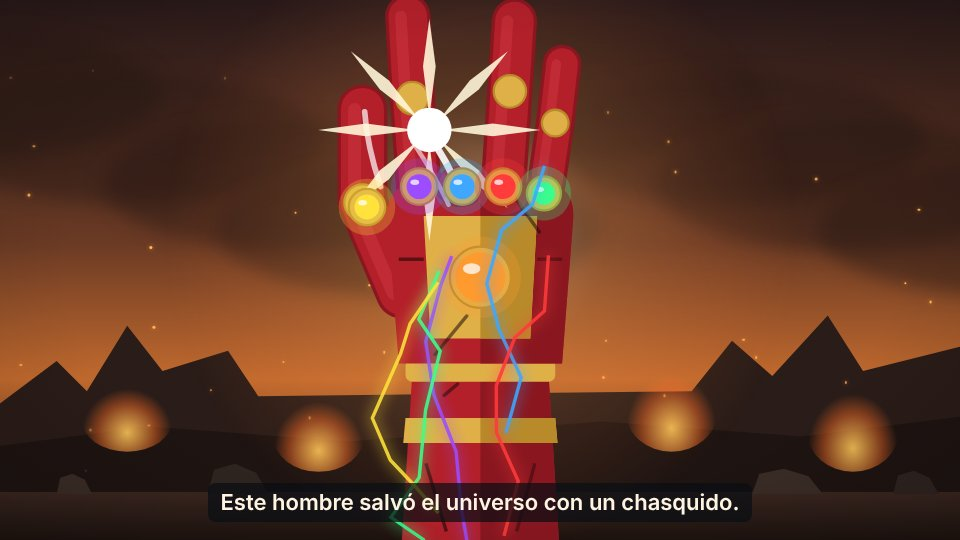
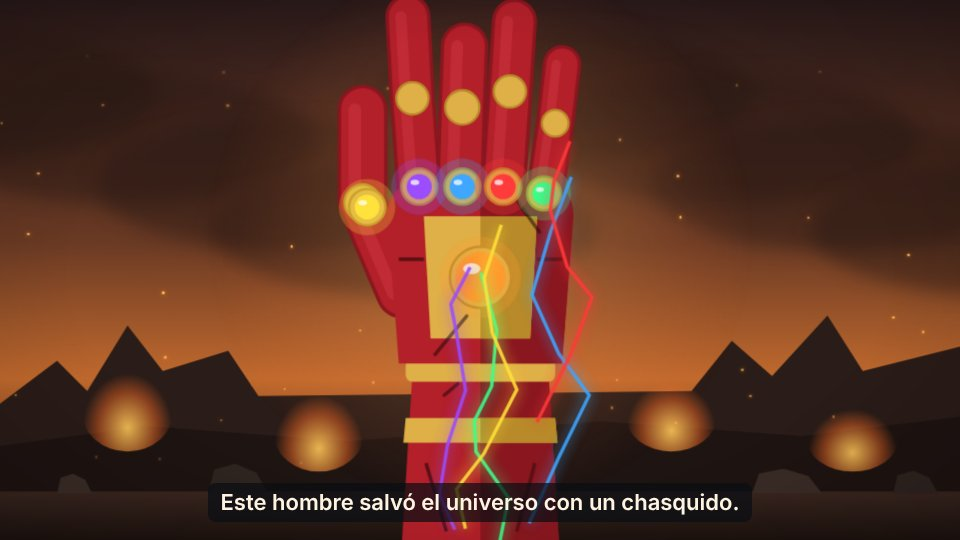
Downey: chasquido sin punto parpadeante y con el dedo que vuelve, máscara recogida de frente sin manos extra, sin barrido de luz, brazo doblado en el taller
Claude-Session: https://claude.ai/code/session_017UKAqj43a3U2Zak48PwerT

diff --git a/src/downey/Escena10.tsx b/src/downey/Escena10.tsx
@@ -3,7 +3,7 @@ import { AbsoluteFill, useCurrentFrame } from "remotion";
 import { useEscena } from "../comun/timeline";
 import { Plano } from "../stallone/escenario";
 import { D, F_CIFRA, interp, prog } from "./estilo";
-import { Encapuchado, manoEncapuchado, HOMBRO_DER, HOMBRO_IZQ, Robert, resolverBrazo, topDePie } from "./Personajes";
+import { Encapuchado, manoEncapuchado, HOMBRO_DER, HOMBRO_IZQ, Robert, resolverBrazo, topDePie, mezclar } from "./Personajes";
 import { Look, Mascara } from "./props";
 import { Cita, Efecto, PantallaFinal, Particulas } from "./ui";
 
@@ -22,16 +22,16 @@ export const Escena10: React.FC = () => {
   // máscara: reposa en la mesa y luego sube entre sus manos
   const MW = 240;
   const mk = MW / 220;
-  const reposo: [number, number] = [1040, MESA - 120 * mk];
-  const alto: [number, number] = [rx + 100 * k - MW / 2, rTop - 150 * mk];
+  const reposo: [number, number] = [rx + 100 * k - MW / 2, MESA - 120 * mk];
+  const alto: [number, number] = [rx + 100 * k - MW / 2, rTop + 52 * k - 80 * mk];
   const sube = interp(f, [c.saga - 4, c.doom - 6], [0, 1], { extrapolateLeft: "clamp", extrapolateRight: "clamp", easing: (t) => (t < 0.5 ? 2 * t * t : 1 - Math.pow(-2 * t + 2, 2) / 2) });
   const coger = prog(f, c.saga - 28, 20);
   const mPos: [number, number] = [reposo[0] + (alto[0] - reposo[0]) * sube, reposo[1] + (alto[1] - reposo[1]) * sube];
   const bordeIzq: [number, number] = [mPos[0] + 26 * mk, mPos[1] + 80 * mk];
   const bordeDer: [number, number] = [mPos[0] + 194 * mk, mPos[1] + 80 * mk];
   const local = (p: [number, number]): [number, number] => [(p[0] - rx) / k, (p[1] - rTop) / k];
-  const bIzq = coger > 0 ? resolverBrazo(HOMBRO_IZQ[0], HOMBRO_IZQ[1], -1, ...local(bordeIzq)) : { hombro: 6, codo: 4 };
-  const bDer = coger > 0 ? resolverBrazo(HOMBRO_DER[0], HOMBRO_DER[1], 1, ...local(bordeDer)) : { hombro: 6, codo: 4 };
+  const bIzq = mezclar({ hombro: 6, codo: 4 }, resolverBrazo(HOMBRO_IZQ[0], HOMBRO_IZQ[1], -1, ...local(bordeIzq)), coger);
+  const bDer = mezclar({ hombro: 6, codo: 4 }, resolverBrazo(HOMBRO_DER[0], HOMBRO_DER[1], 1, ...local(bordeDer)), coger);
   const orbita = Math.sin((f / dur) * Math.PI) * 40;
   // trono: levanta la mano y detiene un rayo
   const manoV = prog(f, c.doom + 14, 14);
@@ -50,22 +50,23 @@ export const Escena10: React.FC = () => {
           {/* muro de piedra */}
           <AbsoluteFill style={{ backgroundImage: "repeating-linear-gradient(0deg, rgba(0,0,0,0.18) 0 3px, transparent 3px 90px), repeating-linear-gradient(90deg, rgba(0,0,0,0.12) 0 3px, transparent 3px 180px)", opacity: 0.8 }} />
           <div style={{ position: "absolute", left: 0, right: 0, top: SUELO, bottom: 0, background: "linear-gradient(#24392C, #142219)" }} />
+          {/* Robert detrás de la mesa, de frente: coge la máscara y se la acerca a la cara */}
+          <div style={{ position: "absolute", left: rx, top: rTop }}>
+            <Robert alto={ALTO} vista="frente" ropa="traje" expresion="serio" brazoIzq={bIzq} brazoDer={bDer} />
+          </div>
           {/* mesa de piedra (patas en el suelo) */}
-          <div style={{ position: "absolute", left: 860, top: MESA, width: 640, height: 40, background: "linear-gradient(#8A948E, #6A746E)", borderRadius: 6 }} />
-          {[900, 1400].map((x) => (
+          <div style={{ position: "absolute", left: 700, top: MESA, width: 640, height: 40, background: "linear-gradient(#8A948E, #6A746E)", borderRadius: 6 }} />
+          {[740, 1240].map((x) => (
             <div key={x} style={{ position: "absolute", left: x, top: MESA + 40, width: 60, height: SUELO - MESA - 40, background: "#5E6862" }} />
           ))}
-          <div style={{ position: "absolute", left: 860, top: SUELO - 10, width: 640, height: 20, borderRadius: "50%", background: "rgba(0,0,0,0.35)" }} />
+          <div style={{ position: "absolute", left: 700, top: SUELO - 10, width: 640, height: 20, borderRadius: "50%", background: "rgba(0,0,0,0.35)" }} />
           {/* sombra de la máscara sobre la mesa mientras reposa */}
           <div style={{ position: "absolute", left: reposo[0] + 20, top: MESA - 8, width: MW - 40, height: 16, borderRadius: "50%", background: "rgba(0,0,0,0.4)", opacity: 1 - sube }} />
-          <div style={{ position: "absolute", left: rx, top: rTop }}>
-            <Robert alto={ALTO} vista="espalda" ropa="traje" brazoIzq={bIzq} brazoDer={bDer} />
-          </div>
           {/* máscara metálica lisa y genérica, con las manos delante */}
           <div style={{ position: "absolute", left: mPos[0], top: mPos[1] }}>
             <Mascara ancho={MW} inclinacion={(1 - sube) * 70} ojos={sube * 0.8} />
           </div>
-          {coger > 0 ? (
+          {coger >= 1 ? (
             <svg width={1920} height={1080} style={{ position: "absolute", inset: 0 }}>
               <circle cx={bordeIzq[0]} cy={bordeIzq[1]} r={9 * k} fill={D.piel} />
               <circle cx={bordeDer[0]} cy={bordeDer[1]} r={9 * k} fill={D.piel} />

diff --git a/src/downey/heroe.tsx b/src/downey/heroe.tsx
@@ -46,7 +46,7 @@ const mezclaP = (a: [number, number][], b: [number, number][], t: number): [numb
  * chasquido 0 = pulgar y corazón juntos; 1 = el corazón golpea la palma y el pulgar sale.
  * Lienzo 400×560 (el antebrazo sale por abajo del encuadre).
  */
-export const Guantelete: React.FC<{ alto?: number; chasquido?: number; carga?: number; semilla?: number }> = ({ alto = 900, chasquido = 0, carga = 1, semilla = 0 }) => {
+export const Guantelete: React.FC<{ alto?: number; chasquido?: number; relaja?: number; carga?: number; semilla?: number }> = ({ alto = 900, chasquido = 0, relaja = 0, carga = 1, semilla = 0 }) => {
   const f = useCurrentFrame();
   const t = chasquido;
   // antes: el corazón se dobla hacia el pulgar y las yemas se tocan sobre los nudillos;
@@ -99,7 +99,7 @@ export const Guantelete: React.FC<{ alto?: number; chasquido?: number; carga?: n
       <rect x={134} y={388} width={132} height={20} rx={6} fill={ORO} />
       {/* dedos (detrás del dorso) */}
       <Dedo p={[[146, 240], [140, 158], [136, 86]]} ancho={34} />
-      {t < 0.5 ? <Dedo p={corazon} ancho={36} /> : null}
+      {t < 0.5 ? <Dedo p={corazon} ancho={36} /> : relaja > 0 ? <Dedo p={mezclaP([[182, 236], [182, 226], [182, 216]], [[182, 236], [184, 166], [186, 112]], relaja)} ancho={36} /> : null}
       <Dedo p={[[220, 240], [226, 152], [230, 90]]} ancho={34} />
       <Dedo p={[[256, 248], [266, 180], [272, 128]]} ancho={28} />
       <Dedo p={pulgar} ancho={38} />
@@ -112,29 +112,27 @@ export const Guantelete: React.FC<{ alto?: number; chasquido?: number; carga?: n
       {/* rasguños de batalla */}
       <path d="M160 384 L188 350 M232 248 L252 276 M168 420 L180 410" stroke="rgba(30,10,10,0.55)" strokeWidth={3} strokeLinecap="round" />
       {/* corazón ya doblado: se ve el nudillo sobre el dorso */}
-      {t >= 0.5 ? (
+      {t >= 0.5 && relaja < 0.4 ? (
         <g>
           <ellipse cx={182} cy={236} rx={22} ry={18} fill={ROJO_OSC} />
           <ellipse cx={182} cy={232} rx={18} ry={14} fill={ROJO} />
         </g>
       ) : null}
       {/* chispa del chasquido y trazos de movimiento */}
-      {t > 0 && t < 1.01 ? (
-        <g opacity={Math.min(1, t * 3)}>
+      {t > 0 && relaja < 1 ? (
+        <g opacity={Math.min(1, t * 3) * (1 - relaja)}>
           <path d="M150 184 Q172 214 184 246" stroke="rgba(255,255,255,0.9)" strokeWidth={6} fill="none" strokeLinecap="round" />
           <path d="M140 196 Q160 226 172 252" stroke="rgba(255,255,255,0.6)" strokeWidth={4} fill="none" strokeLinecap="round" />
           <path d="M112 236 Q100 200 98 170" stroke="rgba(255,255,255,0.7)" strokeWidth={5} fill="none" strokeLinecap="round" />
         </g>
       ) : null}
       {t > 0.3 ? (
-        <g transform={`translate(${contacto[0]} ${contacto[1]}) scale(${0.6 + 0.8 * t})`}>
+        <g transform={`translate(${contacto[0]} ${contacto[1]}) scale(${0.6 + 0.8 * t})`} opacity={1 - relaja}>
           {new Array(8).fill(0).map((_, i) => (
             <path key={i} d="M0 -8 L4 -40 L0 -70 L-4 -40 Z" fill="#FFF6D8" transform={`rotate(${i * 45})`} opacity={0.9} />
           ))}
           <circle r={14} fill="#FFFFFF" />
         </g>
-      ) : t === 0 ? (
-        <circle cx={contacto[0]} cy={contacto[1]} r={10 + 3 * Math.sin(f / 2)} fill="rgba(255,240,200,0.8)" />
       ) : null}
       {/* gemas */}
       <Gema x={146} y={236} r={11} color={GEMAS[0]} luz={carga} />

diff --git a/src/downey/Escena8.tsx b/src/downey/Escena8.tsx
@@ -32,7 +32,7 @@ export const Escena8: React.FC = () => {
   const aTop = SUELO - ARMADURA_BASE * ak;
   const RA = 600;
   const rk = RA / 460;
-  const rx = 840;
+  const rx = 905;
   const rTop = topDePie(SUELO, RA);
   const pecho: [number, number] = [ax + 70 * ak, aTop + 170 * ak];
   const alcanza = prog(f, c.anos + 6, 20);
@@ -182,7 +182,6 @@ export const Escena8: React.FC = () => {
         <Efecto archivo="flash" en={E} vol={0.5} dur={20} />
         <Efecto archivo="mazo" en={E} vol={0.45} dur={25} />
         {/* haz de luz que barre la armadura y fogonazo al encenderse */}
-        <div style={{ opacity: 1 - disolver, position: "absolute", left: ax - 120 + ((f - c.anos) * 6) % 600, top: aTop - 40, width: 60, height: AA + 40, background: "linear-gradient(90deg, transparent, rgba(255,255,255,0.35), transparent)", transform: "skewX(-14deg)" }} />
         <AbsoluteFill style={{ background: `radial-gradient(circle at ${(ax + 110 * ak) / 19.2}% ${(aTop + 60 * ak) / 10.8}%, rgba(160,220,255,${0.55 * Math.max(0, 1 - Math.abs(f - c.riesgo) / 12)}), transparent 45%)` }} />
         <Efecto archivo="flash" en={c.riesgo} vol={0.3} dur={20} />
         <Particulas desde={c.anos + 4} x={ax + 150} y={aTop + 300 * ak} ancho={60} suelo={SUELO} n={50} colores={["#FFE08A", "#FFB43A", "#FFF6D0"]} tam={8} apagar />

diff --git a/src/downey/Escena9.tsx b/src/downey/Escena9.tsx
@@ -126,7 +126,7 @@ export const Escena9: React.FC = () => {
       <Plano desde={c.chasquido - 10} hasta={c.chasquido + 14} fundido={2}>
         <CampoBatalla suelo={980} />
         <div style={{ position: "absolute", left: 960 - 200 * (1150 / 560), top: 520 - 300 * (1150 / 560), transform: `scale(${1 + (f - c.chasquido + 10) * 0.002})`, transformOrigin: "50% 50%" }}>
-          <Guantelete alto={1150} chasquido={prog(f, c.chasquido - 2, 3)} carga={1} semilla={7} />
+          <Guantelete alto={1150} chasquido={prog(f, c.chasquido - 2, 3)} relaja={prog(f, c.chasquido + 4, 10)} carga={1} semilla={7} />
         </div>
         <Destello en={c.chasquido + 1} dur={14} color="#FFF6E6" />
       </Plano>

diff --git a/src/downey/Escena1.tsx b/src/downey/Escena1.tsx
@@ -85,7 +85,7 @@ export const Escena1: React.FC = () => {
         <CampoBatalla suelo={980} />
         <AbsoluteFill style={{ transform: `scale(${empuje})` }}>
           <div style={{ position: "absolute", left: 960 - 200 * gk, top: 520 - 300 * gk }}>
-            <Guantelete alto={GA} chasquido={chasq} carga={0.6 + 0.4 * prog(f, c.universo - 6, 20)} />
+            <Guantelete alto={GA} chasquido={chasq} relaja={prog(f, c.chasquido + 4, 10)} carga={0.6 + 0.4 * prog(f, c.universo - 6, 20)} />
           </div>
         </AbsoluteFill>
         {f >= c.chasquido ? (
